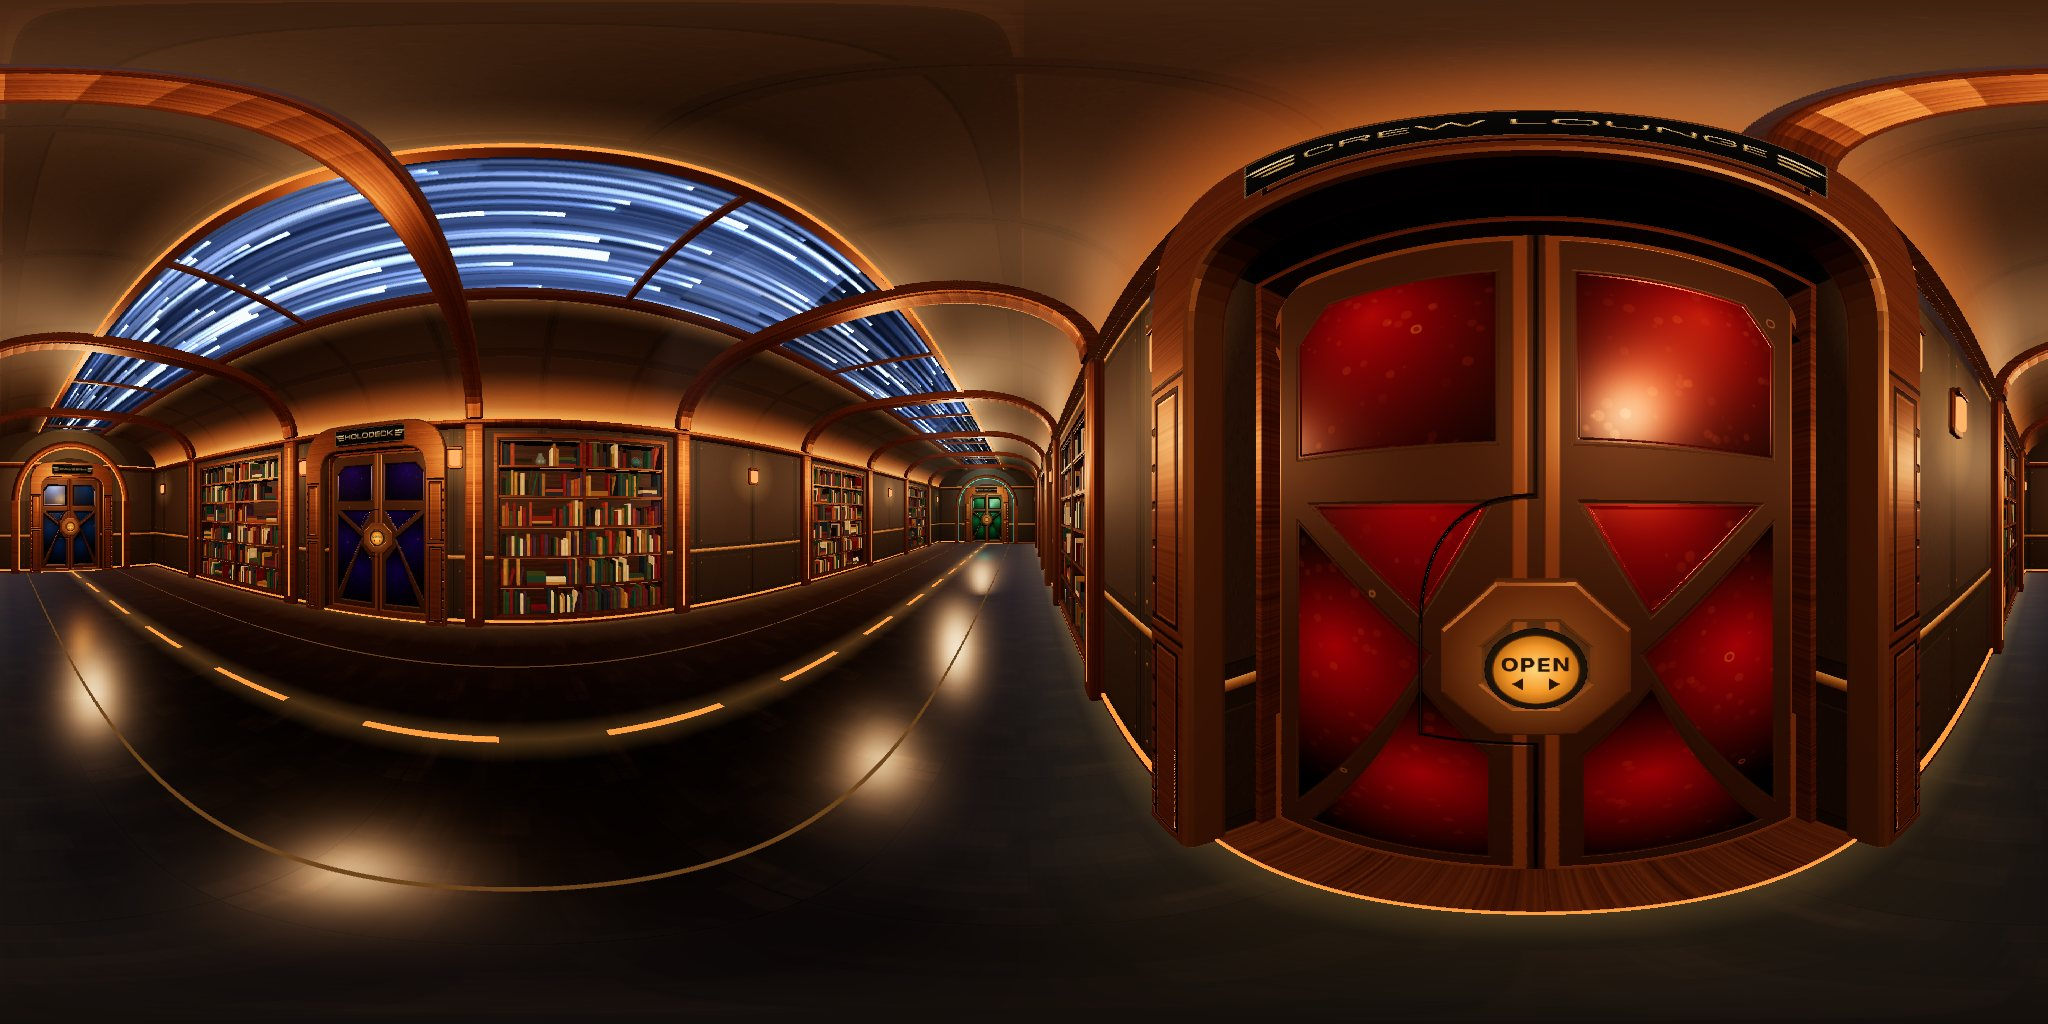
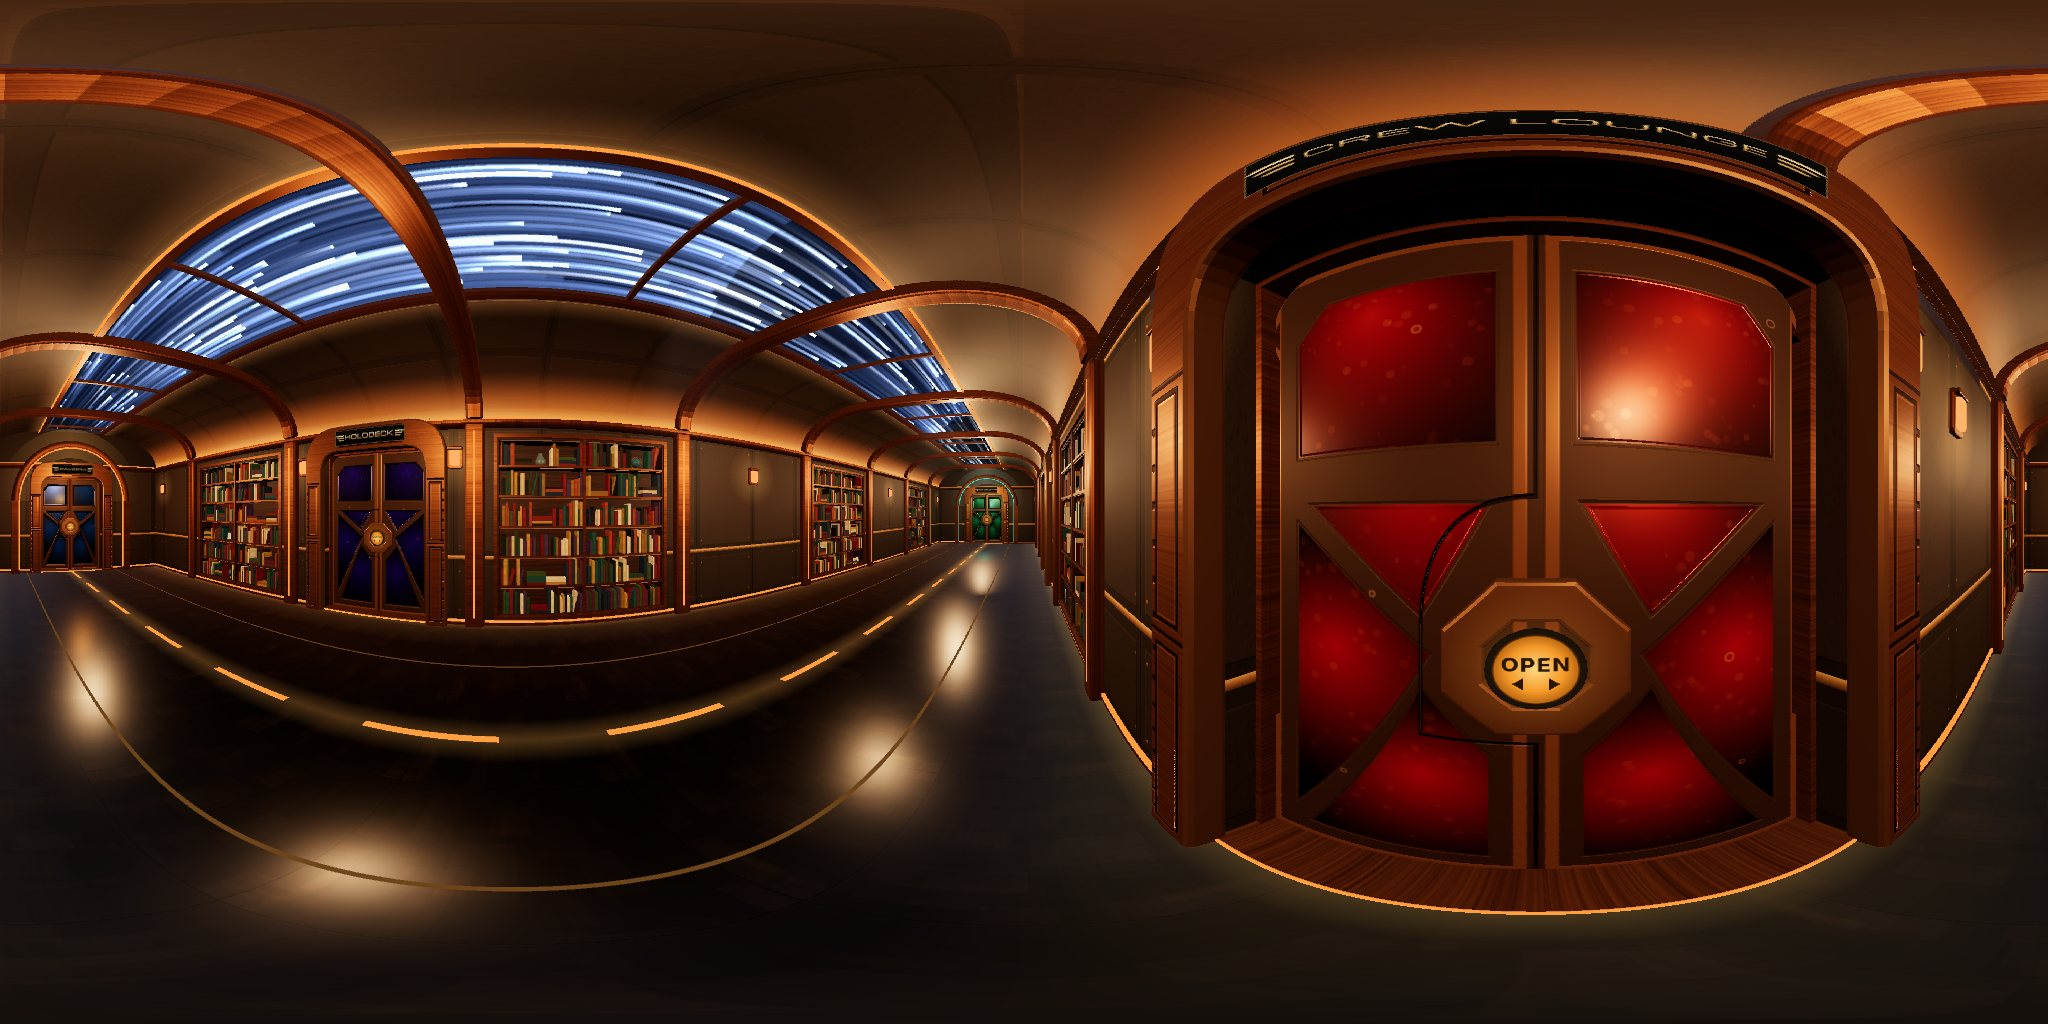
Fix light-speed streaks passing through the Lounge: stretch streaks along their group's own axis
Claude-Session: https://claude.ai/code/session_015swmRW9rk9HZt8JyLRwsXT

Changed region(s): [[0.0312, 0.1562, 0.5, 0.4375]]

diff --git a/hyperspace.js b/hyperspace.js
@@ -35,8 +35,9 @@
       vertexShader: [
         'attribute vec2 aCorner; attribute vec3 aInfo, aCol; uniform float uT, uSpan, uFwd; varying vec2 vC; varying vec3 vCol;',
         'void main(){ vec3 b = position; b.z = mod(b.z - uFwd * uT * aInfo.z + uSpan * 0.5, uSpan) - uSpan * 0.5;',
-        ' vec3 wb = (modelMatrix * vec4(b, 1.0)).xyz; vec3 side = normalize(cross(vec3(0.0, 0.0, 1.0), cameraPosition - wb));',
-        ' vec3 p = wb + vec3(0.0, 0.0, uFwd * aCorner.x * aInfo.x) + side * aCorner.y * aInfo.y;',      // head leads aft, tail trails toward the bow
+        ' vec3 wb = (modelMatrix * vec4(b, 1.0)).xyz, ax = normalize((modelMatrix * vec4(0.0, 0.0, 1.0, 0.0)).xyz);',   // the streaks' own axis (rotated groups, e.g. the Lounge window)
+        ' vec3 side = normalize(cross(ax, cameraPosition - wb));',
+        ' vec3 p = wb + ax * (uFwd * aCorner.x * aInfo.x) + side * aCorner.y * aInfo.y;',      // head leads aft, tail trails toward the bow
         ' vC = aCorner; vCol = aCol; gl_Position = projectionMatrix * viewMatrix * vec4(p, 1.0); }'].join('\n'),
       fragmentShader: 'varying vec2 vC; varying vec3 vCol; void main(){ float a = pow(1.0 - vC.x, 2.2) * (1.0 - vC.y * vC.y); a += smoothstep(0.06, 0.0, vC.x) * 1.5 * (1.0 - abs(vC.y)); gl_FragColor = vec4(vCol * a, 1.0); }' });
     var streaks = new THREE.Mesh(g, sm); streaks.frustumCulled = false; streaks.renderOrder = -9; root.add(streaks);
